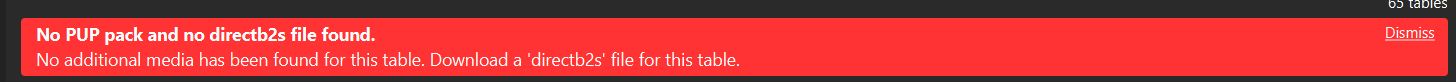
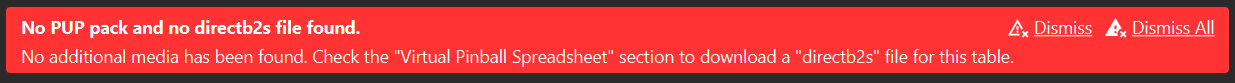
dismiss all btn

diff --git a/vpin-studio-ui/src/main/java/de/mephisto/vpin/ui/util/DismissalUtil.java b/vpin-studio-ui/src/main/java/de/mephisto/vpin/ui/util/DismissalUtil.java
@@ -3,7 +3,9 @@ package de.mephisto.vpin.ui.util;
 import de.mephisto.vpin.commons.fx.ConfirmationResult;
 import de.mephisto.vpin.commons.utils.WidgetFactory;
 import de.mephisto.vpin.restclient.PreferenceNames;
+import de.mephisto.vpin.restclient.representations.PreferenceEntryRepresentation;
 import de.mephisto.vpin.restclient.tables.GameRepresentation;
+import de.mephisto.vpin.restclient.validation.GameValidationCode;
 import de.mephisto.vpin.restclient.validation.ValidationState;
 import de.mephisto.vpin.ui.Studio;
 import de.mephisto.vpin.ui.events.EventManager;
@@ -14,9 +16,33 @@ import java.util.List;
 import static de.mephisto.vpin.ui.Studio.client;
 
 public class DismissalUtil {
+  public static void dismissValidations(GameRepresentation game) {
+    PreferenceEntryRepresentation doNotShowAgainPref = client.getPreferenceService().getPreference(PreferenceNames.UI_DO_NOT_SHOW_AGAINS);
+    List<String> csvValue = doNotShowAgainPref.getCSVValue();
+    if (csvValue.contains(PreferenceNames.UI_DO_NOT_SHOW_AGAIN_CONFIRM_DISMISS_ALL)) {
+      dismissAll(game);
+      EventManager.getInstance().notifyTableChange(game.getId(), null);
+    }
+    else {
+      ConfirmationResult confirmationResult = WidgetFactory.showConfirmationWithCheckbox(Studio.stage, "Ignore all warnings for future validations of table '" + game.getGameDisplayName() + "?", "Dismiss",
+        "The warning can be re-enabled by validating the table again.", null, "Do not show again", false);
+      if (!confirmationResult.isApplied()) {
+        dismissAll(game);
+      }
+
+      if (!confirmationResult.isApplied() && confirmationResult.isChecked()) {
+        if (!csvValue.contains(PreferenceNames.UI_DO_NOT_SHOW_AGAINS)) {
+          csvValue.add(PreferenceNames.UI_DO_NOT_SHOW_AGAIN_CONFIRM_DISMISS_ALL);
+          client.getPreferenceService().setPreference(PreferenceNames.UI_DO_NOT_SHOW_AGAINS, String.join(",", csvValue));
+        }
+      }
+      EventManager.getInstance().notifyTableChange(game.getId(), null);
+    }
+  }
+
   public static void dismissValidation(GameRepresentation game, ValidationState validationState) {
-    List<String> csvValue = client.getPreference(PreferenceNames.UI_SETTINGS).getCSVValue();
-    if (csvValue.contains(PreferenceNames.UI_HIDE_CONFIRM_DISMISSALS)) {
+    List<String> csvValue = client.getPreference(PreferenceNames.UI_DO_NOT_SHOW_AGAINS).getCSVValue();
+    if (csvValue.contains(PreferenceNames.UI_DO_NOT_SHOW_AGAIN_CONFIRM_DISMISSALS)) {
       dismiss(game, validationState);
       EventManager.getInstance().notifyTableChange(game.getId(), null);
     }
@@ -28,9 +54,9 @@ public class DismissalUtil {
       }
 
       if (!confirmationResult.isApplied() && confirmationResult.isChecked()) {
-        if (!csvValue.contains(PreferenceNames.UI_HIDE_CONFIRM_DISMISSALS)) {
-          csvValue.add(PreferenceNames.UI_HIDE_CONFIRM_DISMISSALS);
-          client.getPreferenceService().setPreference(PreferenceNames.UI_SETTINGS, String.join(",", csvValue));
+        if (!csvValue.contains(PreferenceNames.UI_DO_NOT_SHOW_AGAIN_CONFIRM_DISMISSALS)) {
+          csvValue.add(PreferenceNames.UI_DO_NOT_SHOW_AGAIN_CONFIRM_DISMISSALS);
+          client.getPreferenceService().setPreference(PreferenceNames.UI_DO_NOT_SHOW_AGAINS, String.join(",", csvValue));
         }
       }
       EventManager.getInstance().notifyTableChange(game.getId(), null);
@@ -47,6 +73,18 @@ public class DismissalUtil {
       ignoredValidations.add(validationState.getCode());
     }
 
+    game.setIgnoredValidations(ignoredValidations);
+
+    try {
+      client.getGameService().saveGame(game);
+    } catch (Exception e) {
+      WidgetFactory.showAlert(Studio.stage, e.getMessage());
+    }
+  }
+
+  private static void dismissAll(GameRepresentation game) {
+    List<Integer> ignoredValidations =  new ArrayList<>();
+    ignoredValidations.add(-1);
     game.setIgnoredValidations(ignoredValidations);
 
     try {

diff --git a/vpin-studio-ui/src/main/java/de/mephisto/vpin/ui/tables/TableOverviewController.java b/vpin-studio-ui/src/main/java/de/mephisto/vpin/ui/tables/TableOverviewController.java
@@ -386,6 +386,12 @@ public class TableOverviewController implements Initializable, StudioFXControlle
     DismissalUtil.dismissValidation(game, validationState);
   }
 
+  @FXML
+  private void onDismissAll() {
+    GameRepresentation game = tableView.getSelectionModel().getSelectedItem();
+    DismissalUtil.dismissValidations(game);
+  }
+
   public void reload(String rom) {
     List<GameRepresentation> gamesByRom = client.getGameService().getGamesByRom(rom);
     Platform.runLater(() -> {
@@ -717,8 +723,10 @@ public class TableOverviewController implements Initializable, StudioFXControlle
     columnStatus.setCellValueFactory(cellData -> {
       GameRepresentation value = cellData.getValue();
       ValidationState validationState = value.getValidationState();
-      if (validationState != null && validationState.getCode() > 0) {
-        return new SimpleObjectProperty(WidgetFactory.createExclamationIcon(getIconColor(value)));
+      if (!value.getIgnoredValidations().contains(-1)) {
+        if (validationState != null && validationState.getCode() > 0) {
+          return new SimpleObjectProperty(WidgetFactory.createExclamationIcon(getIconColor(value)));
+        }
       }
 
       return new SimpleObjectProperty(WidgetFactory.createCheckIcon(getIconColor(value)));
@@ -919,7 +927,7 @@ public class TableOverviewController implements Initializable, StudioFXControlle
     this.tablesController.getTablesSideBarController().setGame(g);
     if (g.isPresent()) {
       GameRepresentation game = g.get();
-      validationError.setVisible(game.getValidationState().getCode() > 0);
+      validationError.setVisible(game.getValidationState().getCode() > 0 && !game.getIgnoredValidations().contains(-1));
       if (game.getValidationState().getCode() > 0) {
         LocalizedValidation validationMessage = GameValidationTexts.validate(game);
         validationErrorLabel.setText(validationMessage.getLabel());

diff --git a/vpin-studio-ui/src/main/java/de/mephisto/vpin/ui/preferences/UIPreferencesController.java b/vpin-studio-ui/src/main/java/de/mephisto/vpin/ui/preferences/UIPreferencesController.java
@@ -36,15 +36,11 @@ import static de.mephisto.vpin.ui.Studio.stage;
 
 public class UIPreferencesController implements Initializable {
 
-
   @FXML
   private BorderPane avatarBorderPane;
 
   @FXML
   private TextField vpinNameText;
-
-  @FXML
-  private CheckBox uiDismissalConfirm;
 
   @FXML
   private CheckBox uiShowVersion;
@@ -84,17 +80,6 @@ public class UIPreferencesController implements Initializable {
 
     PreferenceEntryRepresentation preference = client.getPreference(PreferenceNames.UI_SETTINGS);
     List<String> values = preference.getCSVValue();
-
-    uiDismissalConfirm.setSelected(values.contains(PreferenceNames.UI_HIDE_CONFIRM_DISMISSALS));
-    uiDismissalConfirm.selectedProperty().addListener((observableValue, aBoolean, t1) -> {
-      if (!t1) {
-        values.remove(PreferenceNames.UI_HIDE_CONFIRM_DISMISSALS);
-      }
-      else if (!values.contains(PreferenceNames.UI_HIDE_CONFIRM_DISMISSALS)) {
-        values.add(PreferenceNames.UI_HIDE_CONFIRM_DISMISSALS);
-      }
-      client.getPreferenceService().setPreference(PreferenceNames.UI_SETTINGS, String.join(",", values));
-    });
 
 
     uiShowVersion.setSelected(values.contains(PreferenceNames.UI_HIDE_VERSIONS));

diff --git a/vpin-studio-rest-client/src/main/java/de/mephisto/vpin/restclient/PreferenceNames.java b/vpin-studio-rest-client/src/main/java/de/mephisto/vpin/restclient/PreferenceNames.java
@@ -25,9 +25,11 @@ public interface PreferenceNames {
 
   String UI_SETTINGS = "uiSettings";
   String UI_HIDE_VERSIONS = "hideVersions";
-  String UI_HIDE_CONFIRM_DISMISSALS = "hideDismissConfirmations";
+
   String UI_DO_NOT_SHOW_AGAINS = "doNotShowAgains";
   String UI_DO_NOT_SHOW_AGAIN_COMPONENTS_WARNING = "componentsWarning";
+  String UI_DO_NOT_SHOW_AGAIN_CONFIRM_DISMISSALS = "hideDismissConfirmations";
+  String UI_DO_NOT_SHOW_AGAIN_CONFIRM_DISMISS_ALL = "hideDimissAllConfirmations";
   String UI_DO_NOT_SHOW_AGAIN_UPDATE_INFO = "updateInfo";
 
   String DISCORD_BOT_TOKEN = "discordBotToken";

diff --git a/vpin-studio-rest-client/src/main/java/de/mephisto/vpin/restclient/validation/GameValidationCode.java b/vpin-studio-rest-client/src/main/java/de/mephisto/vpin/restclient/validation/GameValidationCode.java
@@ -33,6 +33,4 @@ public interface GameValidationCode {
   int CODE_ALT_COLOR_FILES_MISSING = 82;
   int CODE_ALT_COLOR_SERUM_INSTALLATION_FILES_MISSING = 83;
   int CODE_ALT_COLOR_DMDDEVICE_FILES_MISSING = 84;
-
-
 }
